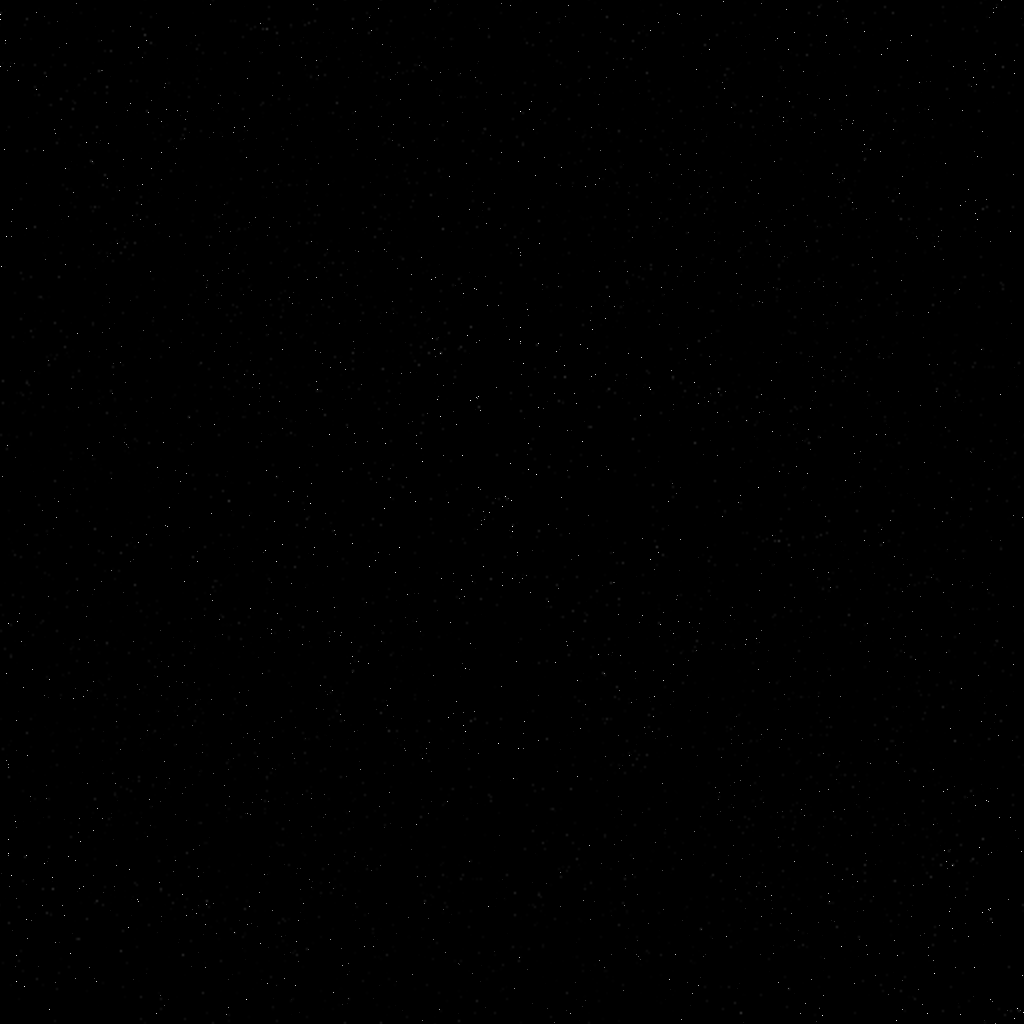
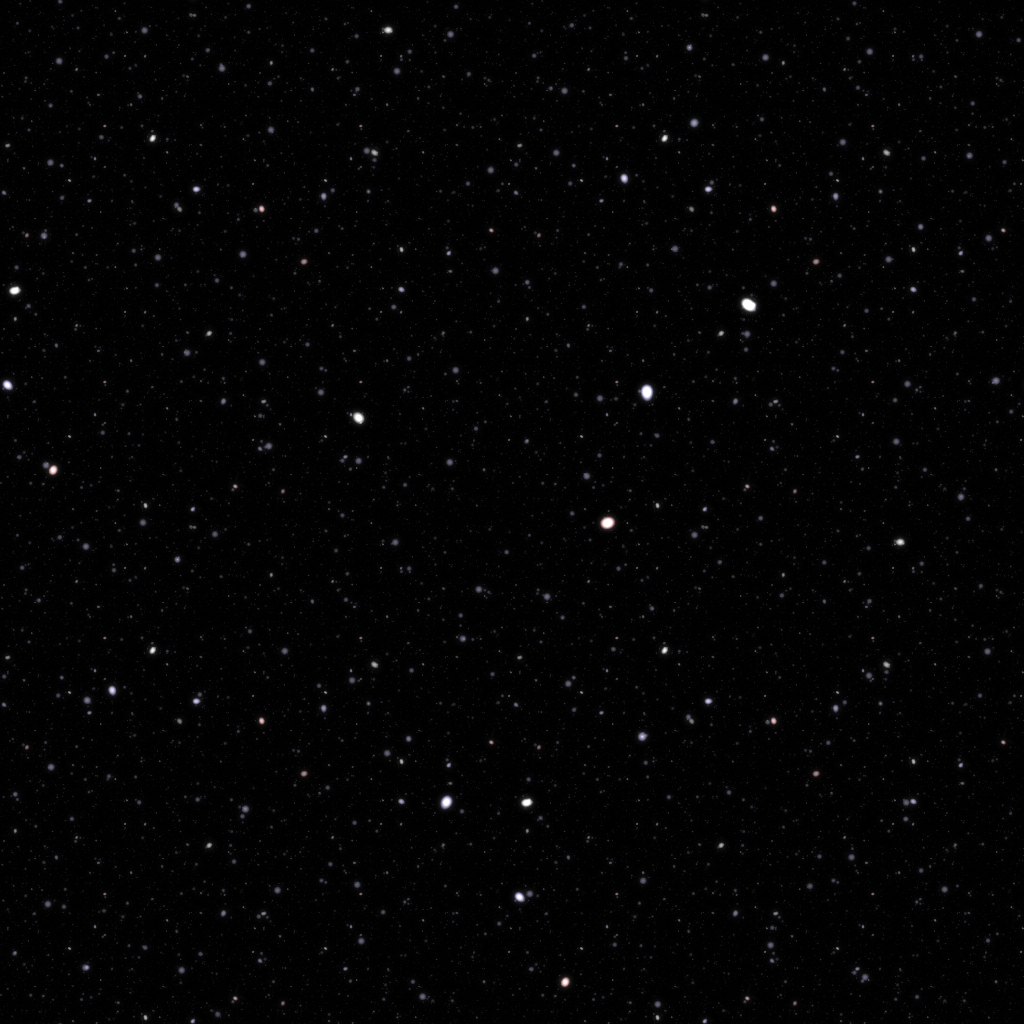
img

diff --git a/script.js b/script.js
@@ -1483,7 +1483,7 @@ function tv_stars(k) {
 
 const spaceImages = {};
 
-for(let i=1;i<=33;i++){
+for(let i=1;i<=27;i++){
     let name = String(i).padStart(3,'0');
     let img = new Image();
     img.src = `img/space/${name}.png`;
@@ -1538,7 +1538,7 @@ function tv_space(k, imgName="001") {
 
 // ฟังก์ชันสุ่มชื่อรูปภาพจากรายการ 001 - 020
 function getRandomSpaceImgName() {
-    let randomNum = Math.floor(Math.random() * 33) + 1;
+    let randomNum = Math.floor(Math.random() * 27) + 1;
     return String(randomNum).padStart(3, '0');
 }
 
